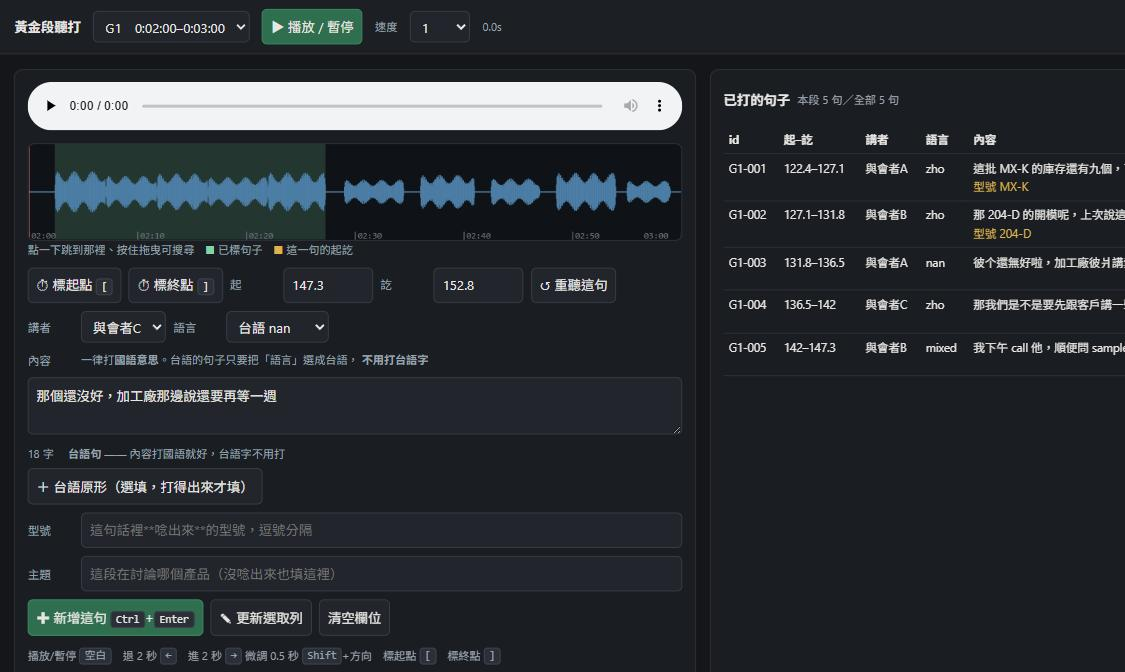
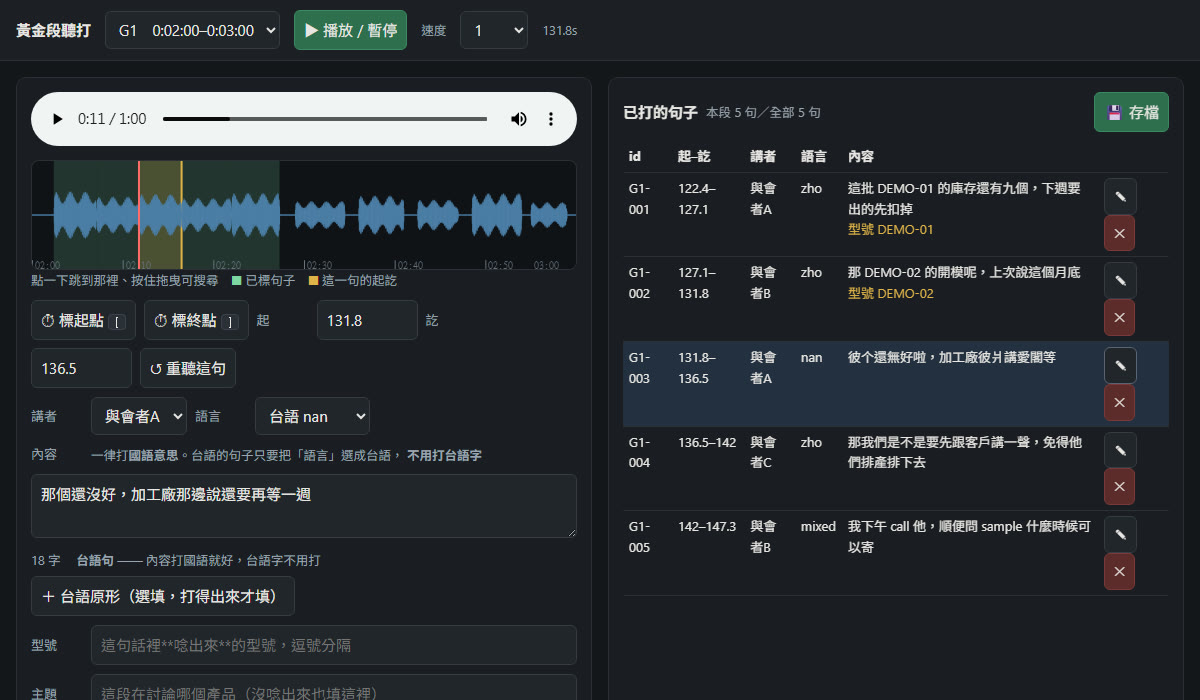
docs: README 一輪改寫 ＋ 換掉會被讀成真型號的截圖
Hevin 在 GitHub 網頁上改了一輪 README（語氣、標點、補字），再加上兩件修正。

## 他改的

開頭與「一句話」那節重寫、多處補逗號讓長句好讀，
以及兩個真的缺字／缺詞的修正：「阿拉伯」→「阿拉伯數字」、
「兩顆麥」→「兩顆麥克風」。

## 修回來的三處

1. **「分子的絕對值」→「絕對數」** —— 那節講的是分子的**原始計數**
   （發生幾件事），不是數學上的 |x|。同一節內文自己寫著
   「分子只有**個位數事件**」。
2. **「下結論之前」→「下負結論之前」** —— 那節講的正是**負結果**
   （量不到 ≠ 不存在），而內文還留著「才確認**負結果**成立」。
3. **`ground truth` 行尾補回破折號** —— 原本的破折號被刪掉後該行沒有結尾標點，
   markdown 會把下一行併進同一段，讀者看到兩句黏成一行。

## 換截圖

舊圖的佔位型號 `204-D` 跟真的 `106-D`／`108-D` **同一個命名家族** ——
熟悉那個牌子的人會讀成真的。改成 `DEMO-01`／`DEMO-02`：一眼就知道是示範資料，
而兩個代碼仍然相近（只差末碼），示範「相近音超多」的效果不變。

說明文字同步：`UI介面`→`UI`；`都是程式產生`→`皆為佔位，音檔由程式產生`
（型號與講者是手寫佔位字串，只有音檔是程式產的）。

## 驗證

`pytest tests/` **246 passed / 1 skipped**；
消毒審計對 18 個文字檔重跑，denylist 53 條、**零命中**；截圖逐項目視確認。

diff --git a/README.md b/README.md
@@ -2,24 +2,25 @@
 
 **如何產出一份可交付的會議紀錄與逐字稿，並讓它成為你工作專案的 ground truth。**
 
-多人、多語、單點收音的會議。轉錄誰都會跑 —— 難的是那份稿子送到你面前時，
-你不知道它漏了什麼、哪裡在猜。
+多人、多語、單點收音的會議。
+轉錄誰都會跑，
+難的是，那份稿子是否可以被視為可信任的文件。
 
-而會議紀錄發出去之後就不只是一份文件了。之後每一次「當初講好的是什麼」、
-「那個規格誰答應的」、「這個型號是哪一版」，都回頭引用它。
-它變成那個專案的 ground truth ——
-**錯在裡面的東西不會停在裡面，它會被後面每一次引用放大一次。**
+而會議紀錄發出去之後就不只是一份文件了。
+之後每一次「當初講好的是什麼」、「那個規格誰答應的」、「這個型號是哪一版」，都回頭引用它。
+它會變成那個專案的 ground truth ——
+**錯誤的資訊，會在後面每一次引用放大一次。**
 
-所以這個 repo 的重點在**那份稿子有多少能信，而且說得出數字**。
+所以這個 repo 的重點在**一份稿子有多少能信，而且能給得出實際的數據**。
 
 ---
 
-## 一句話
+## Human-in-the-loop，建立一份「黃金段落」
 
 **人聽打那一步省不掉，但可以只做一點點，然後知道剩下的能不能信。**
 
-`transcribe_ui.py` 讓那一點點變便宜；其餘的工具在回答
-「所以自動轉的那一大半，到底有多準」。
+`transcribe_ui.py` 效益最大化；其餘的讓工具回答
+「模型轉錄的那大半，到底有多準?」
 
 ---
 
@@ -29,13 +30,13 @@
 「看起來像逐字稿」的東西。問題是：
 
 - 它漏了多少？
-- 它在哪裡是在猜？
+- 幻覺可能出現在哪裡？
 - 它把台語寫成國語了嗎？
-- 專有名詞它認得幾個？
+- 專有名詞識別？
 - 換一個引擎會不會比較好？
 
 **沒有標準答案的時候，這五題一題都答不了。** 常見的替代做法是跑兩個引擎互比 ——
-但兩份都錯的地方它們會一起錯，一致不代表對。
+但兩份都錯的地方，它們會一起錯，一致不代表對，有時候是一起出現一樣的幻覺。
 
 所以流程是這樣的：**人工聽打幾段 60 秒（叫「黃金段」），其餘全部自動化，
 再用那幾段回頭量自動的部分。** 聽打是輸入，不是副產品。
@@ -48,7 +49,7 @@
 
 ![黃金段聽打器](docs/transcribe-ui.jpg)
 
-*示範資料：講者與型號都是佔位的，音檔是程式產的，不是任何真實會議。*
+*畫面僅示範 UI，資料、講者與型號皆為佔位，音檔由程式產生，非真實會議。*
 
 圖上有三件事值得指出來：
 
@@ -76,7 +77,7 @@ python transcribe_ui.py <黃金段資料夾>      # 開 http://127.0.0.1:8765
 
 🔴 **只綁 127.0.0.1，而且擋 DNS rebinding 與 CSRF。** 這不是多疑 ——
 早期版本實測 `Host: evil.attacker.com` 打 `GET /api/lines` 會回 200 ＋ 完整逐字稿，
-而任何網頁都能 POST 一個空陣列把整份稿子清掉。兩個都修了，
+而任何網頁都能 POST 一個空陣列，把整份稿子清掉。兩個都修了，
 `tests/test_transcribe_ui.py` 起真的 server 送那些 payload 驗。
 
 ---
@@ -103,7 +104,7 @@ python transcribe_ui.py <黃金段資料夾>      # 開 http://127.0.0.1:8765
 ```
 
 左邊那條是每次開會都會跑的；右邊那個框**做一次就好**，
-之後換引擎、改參數、換錄音設備都拿它來量。
+之後換引擎、改參數、換錄音設備，都拿它來量。
 
 ---
 
@@ -128,7 +129,7 @@ python transcribe_ui.py <黃金段資料夾>      # 開 http://127.0.0.1:8765
 **收了詞之後要能看出命中數變了**，不然你不知道自己在收什麼。
 
 🔴 **一個實測的坑：主轉錄不要餵熱詞表。**
-餵了之後你分不出「引擎真的聽對了」還是「提示把它推過去了」。
+餵了之後，你分不出「引擎真的聽對了」還是「提示把它推過去了」。
 留一條無提示的稿當對照，熱詞只用在覆核那一輪。
 
 ### 二、稿 → 紀錄那一步
@@ -171,9 +172,9 @@ ffmpeg -i 原始音檔.m4a -af "dynaudnorm=f=200:g=15:p=0.9:m=30" -ac 1 -ar 1600
 | `cer_content` | 內容正確率 | 逐句對齊會把**切段風格**讀成錯誤。改成逐段串接 ＋ 近似子字串對齊（兩端自由） |
 | `verbosity` | 稿面膨脹率 | 🔴 **必須跟 CER 並列讀。** 兩端自由的代價是「視窗內多餘的輸出不算錯」——實測 1618 字胡言亂語包住 18 字正確答案，CER 得 **0.0000**。接近 1 ⇒ CER 可引用；遠大於 1 ⇒ 那是「最佳子字串」不是「這份稿有多準」 |
 | `coverage` | 涵蓋率 | 以前都拿引擎自己的輸出當分母 ⇒ 沒有真分母。這裡分母是人標的語音秒數 |
-| `hallucination` | 憑空生字 | **在非窮盡的黃金段上它是上限不是幻覺率** —— 人沒打到的真實語音會被算進去。用 `adjudicate.py` 拆。三種情況回 `None` 而不是回一個數字：cue 太粗／來源的 cue 終點是推估的／視窗內零輸出。**判不動就說判不動** |
-| `taigi_retention` | 台語忠實度 | **不需要台語標準答案**：只要人標出「哪幾句是台語」，看引擎在那些句子上有沒有吐台語專屬字形 |
-| 型號 `precision`／`recall` | 專有名詞 | 只量 recall 會鼓勵亂猜。且比對前要正規化（中文數字↔阿拉伯、連字號、大小寫），否則量到的是**書寫格式** |
+| `hallucination` | 憑空生字 | **在非窮盡的黃金段上，它是上限，不是幻覺率** —— 人沒打到的真實語音會被算進去。用 `adjudicate.py` 拆。三種情況回 `None` 而不是回一個數字：cue 太粗／來源的 cue 終點是推估的／視窗內零輸出。**判不動就說判不動** |
+| `taigi_retention` | 台語忠實度 | **不需要台語標準答案**：只要人標出「哪幾句是台語」，看引擎在哪些句子上有沒有吐台語專屬字形 |
+| 型號 `precision`／`recall` | 專有名詞 | 只量 recall 會鼓勵亂猜。且比對前要正規化（中文數字↔阿拉伯數字、連字號、大小寫），否則量到的是**書寫格式** |
 | `rtf` | 速度 | **當場量，不可跨場次沿用。** 實測同一支腳本在記憶體吃緊時 RTF 從 0.126 掉到 0.509 |
 
 ---
@@ -328,7 +329,7 @@ python -m pytest tests/test_subprocess_encoding.py -q
 ### 二、下負結論之前，先確認你的尺夠細
 
 判斷「這個雙聲道錄音有沒有空間資訊」時，第一次用 16 kHz 量到達時間差，全部得 0 ——
-但 16 kHz 的解析度是 1 樣本 ＝ 2.1 公分，而手機兩顆麥的間距就是 10 公分等級。
+但 16 kHz 的解析度是 1 樣本 ＝ 2.1 公分，而手機兩顆麥克風的間距就是 10 公分等級。
 **用一把跟效應量同級的尺量不到，不構成證據。** 換 48 kHz 重測（0.71 公分／樣本）
 才確認負結果成立。
 
